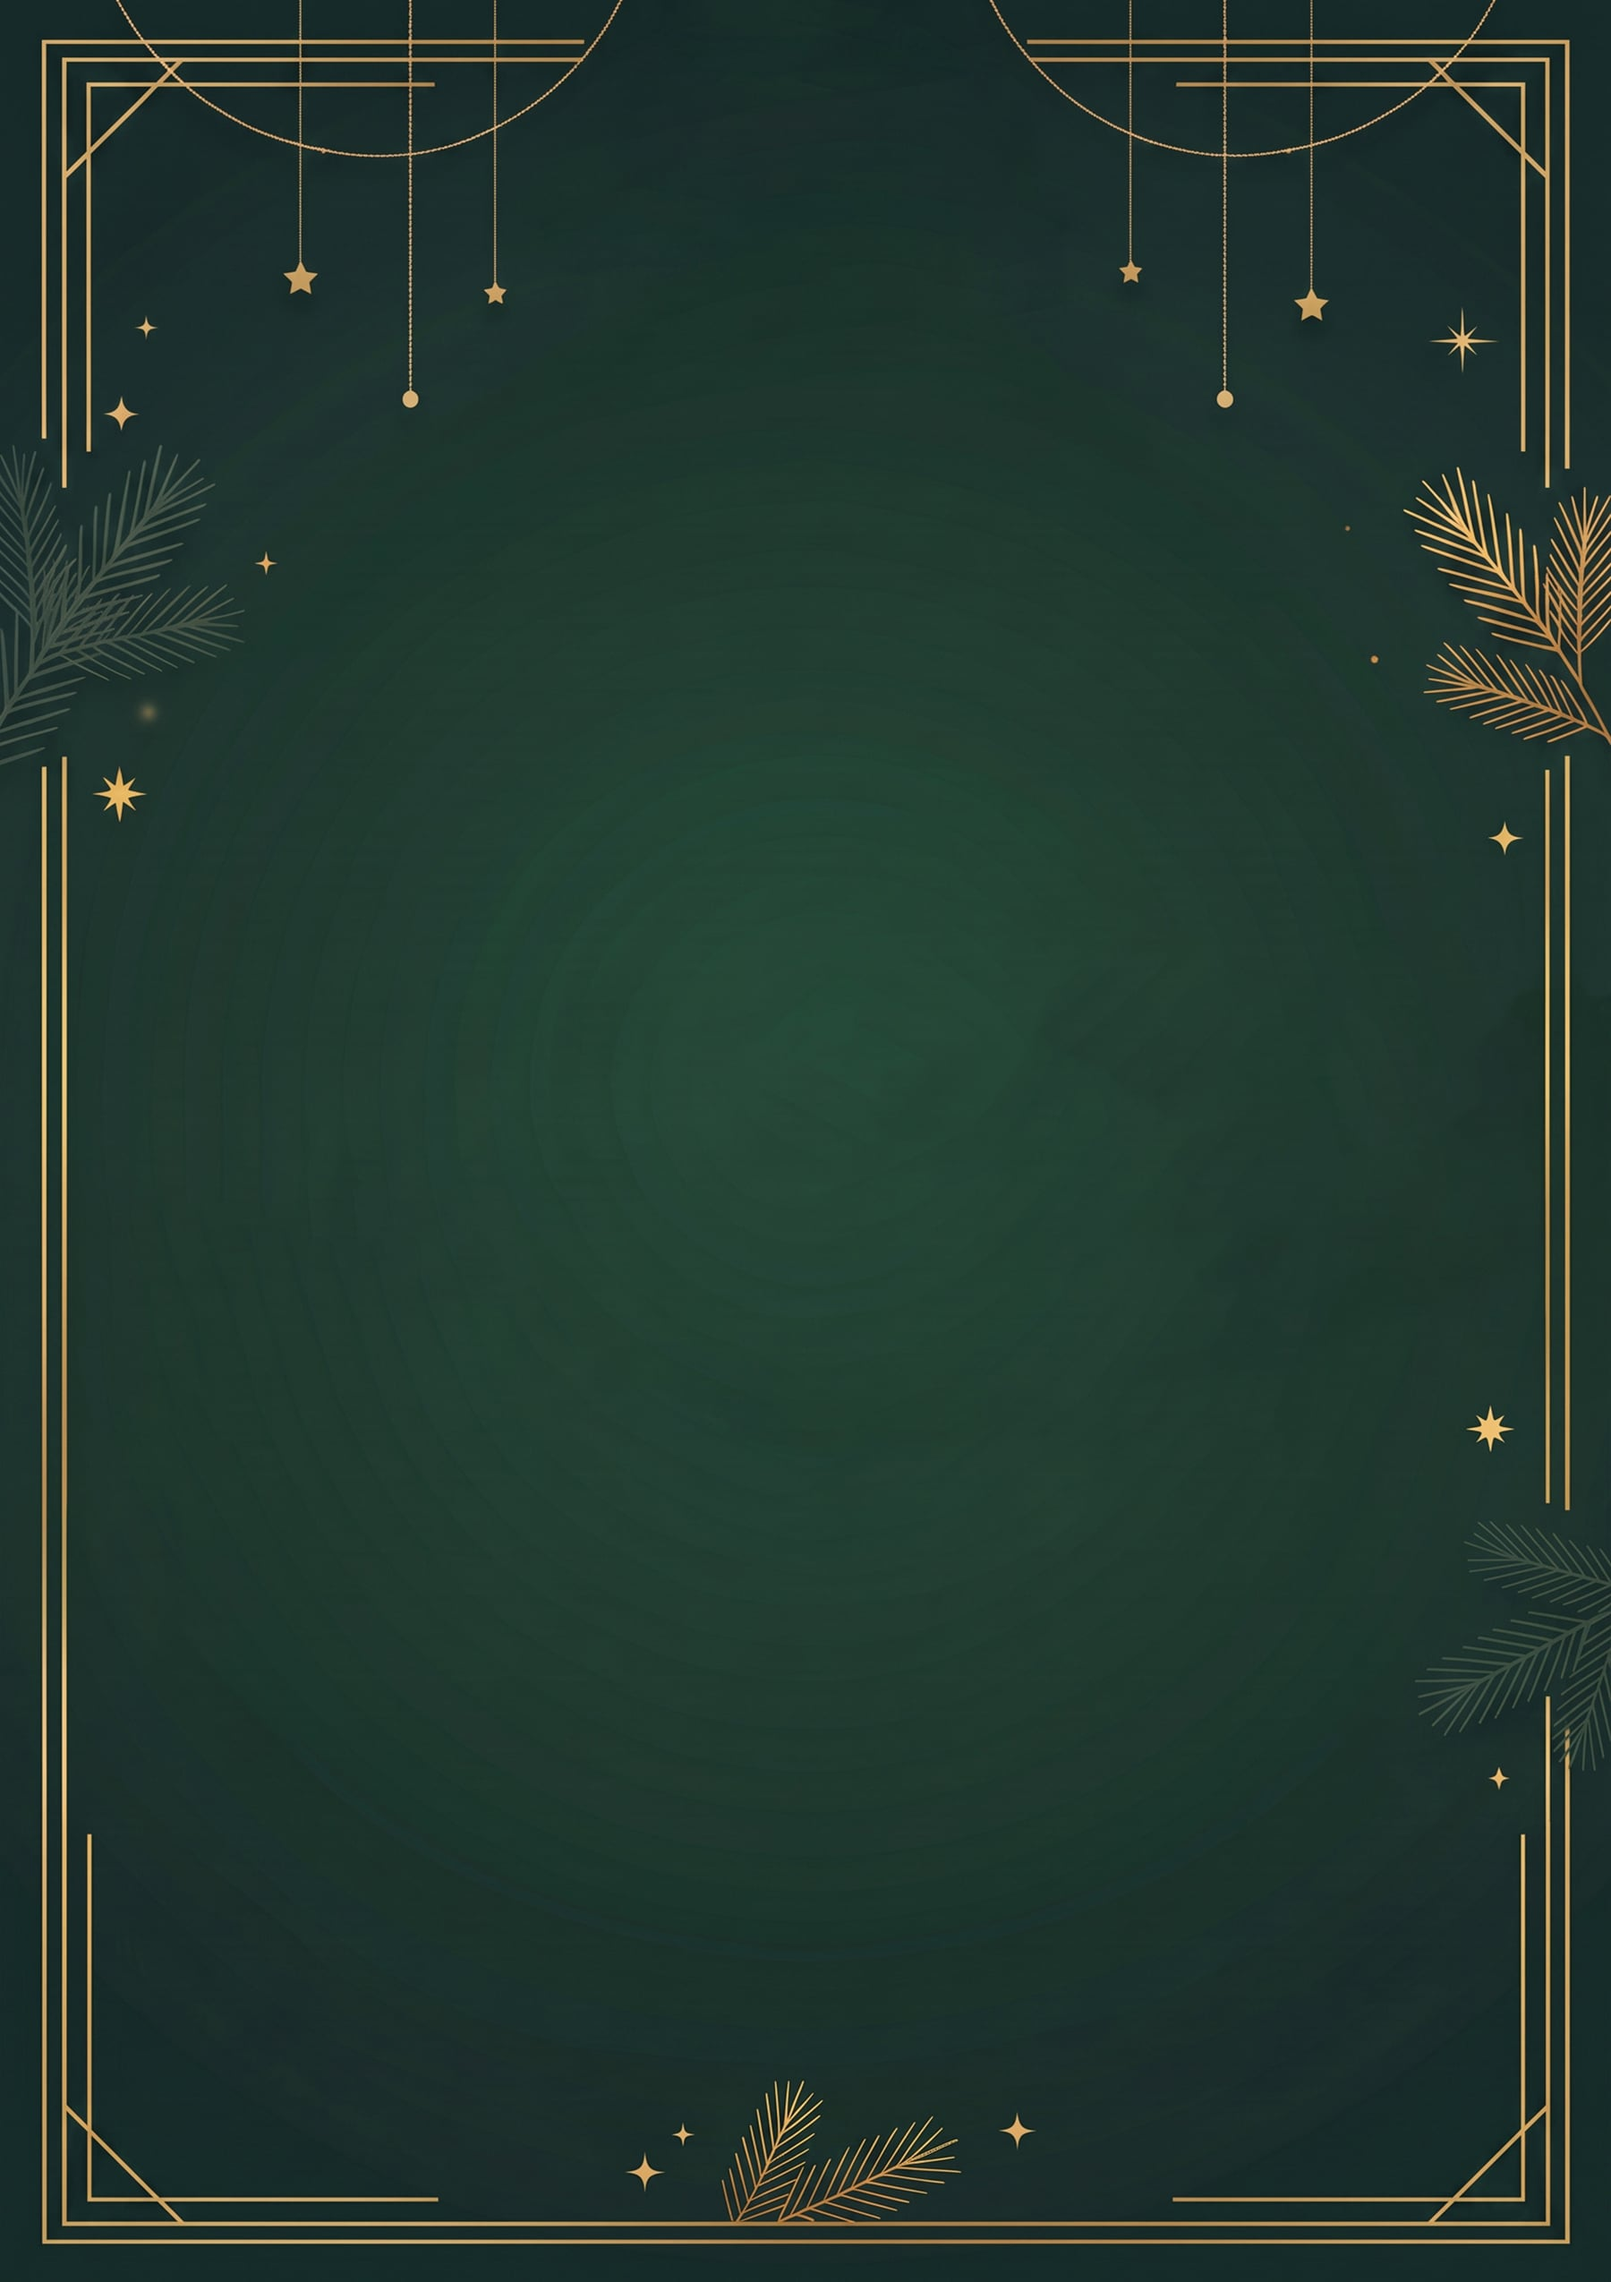
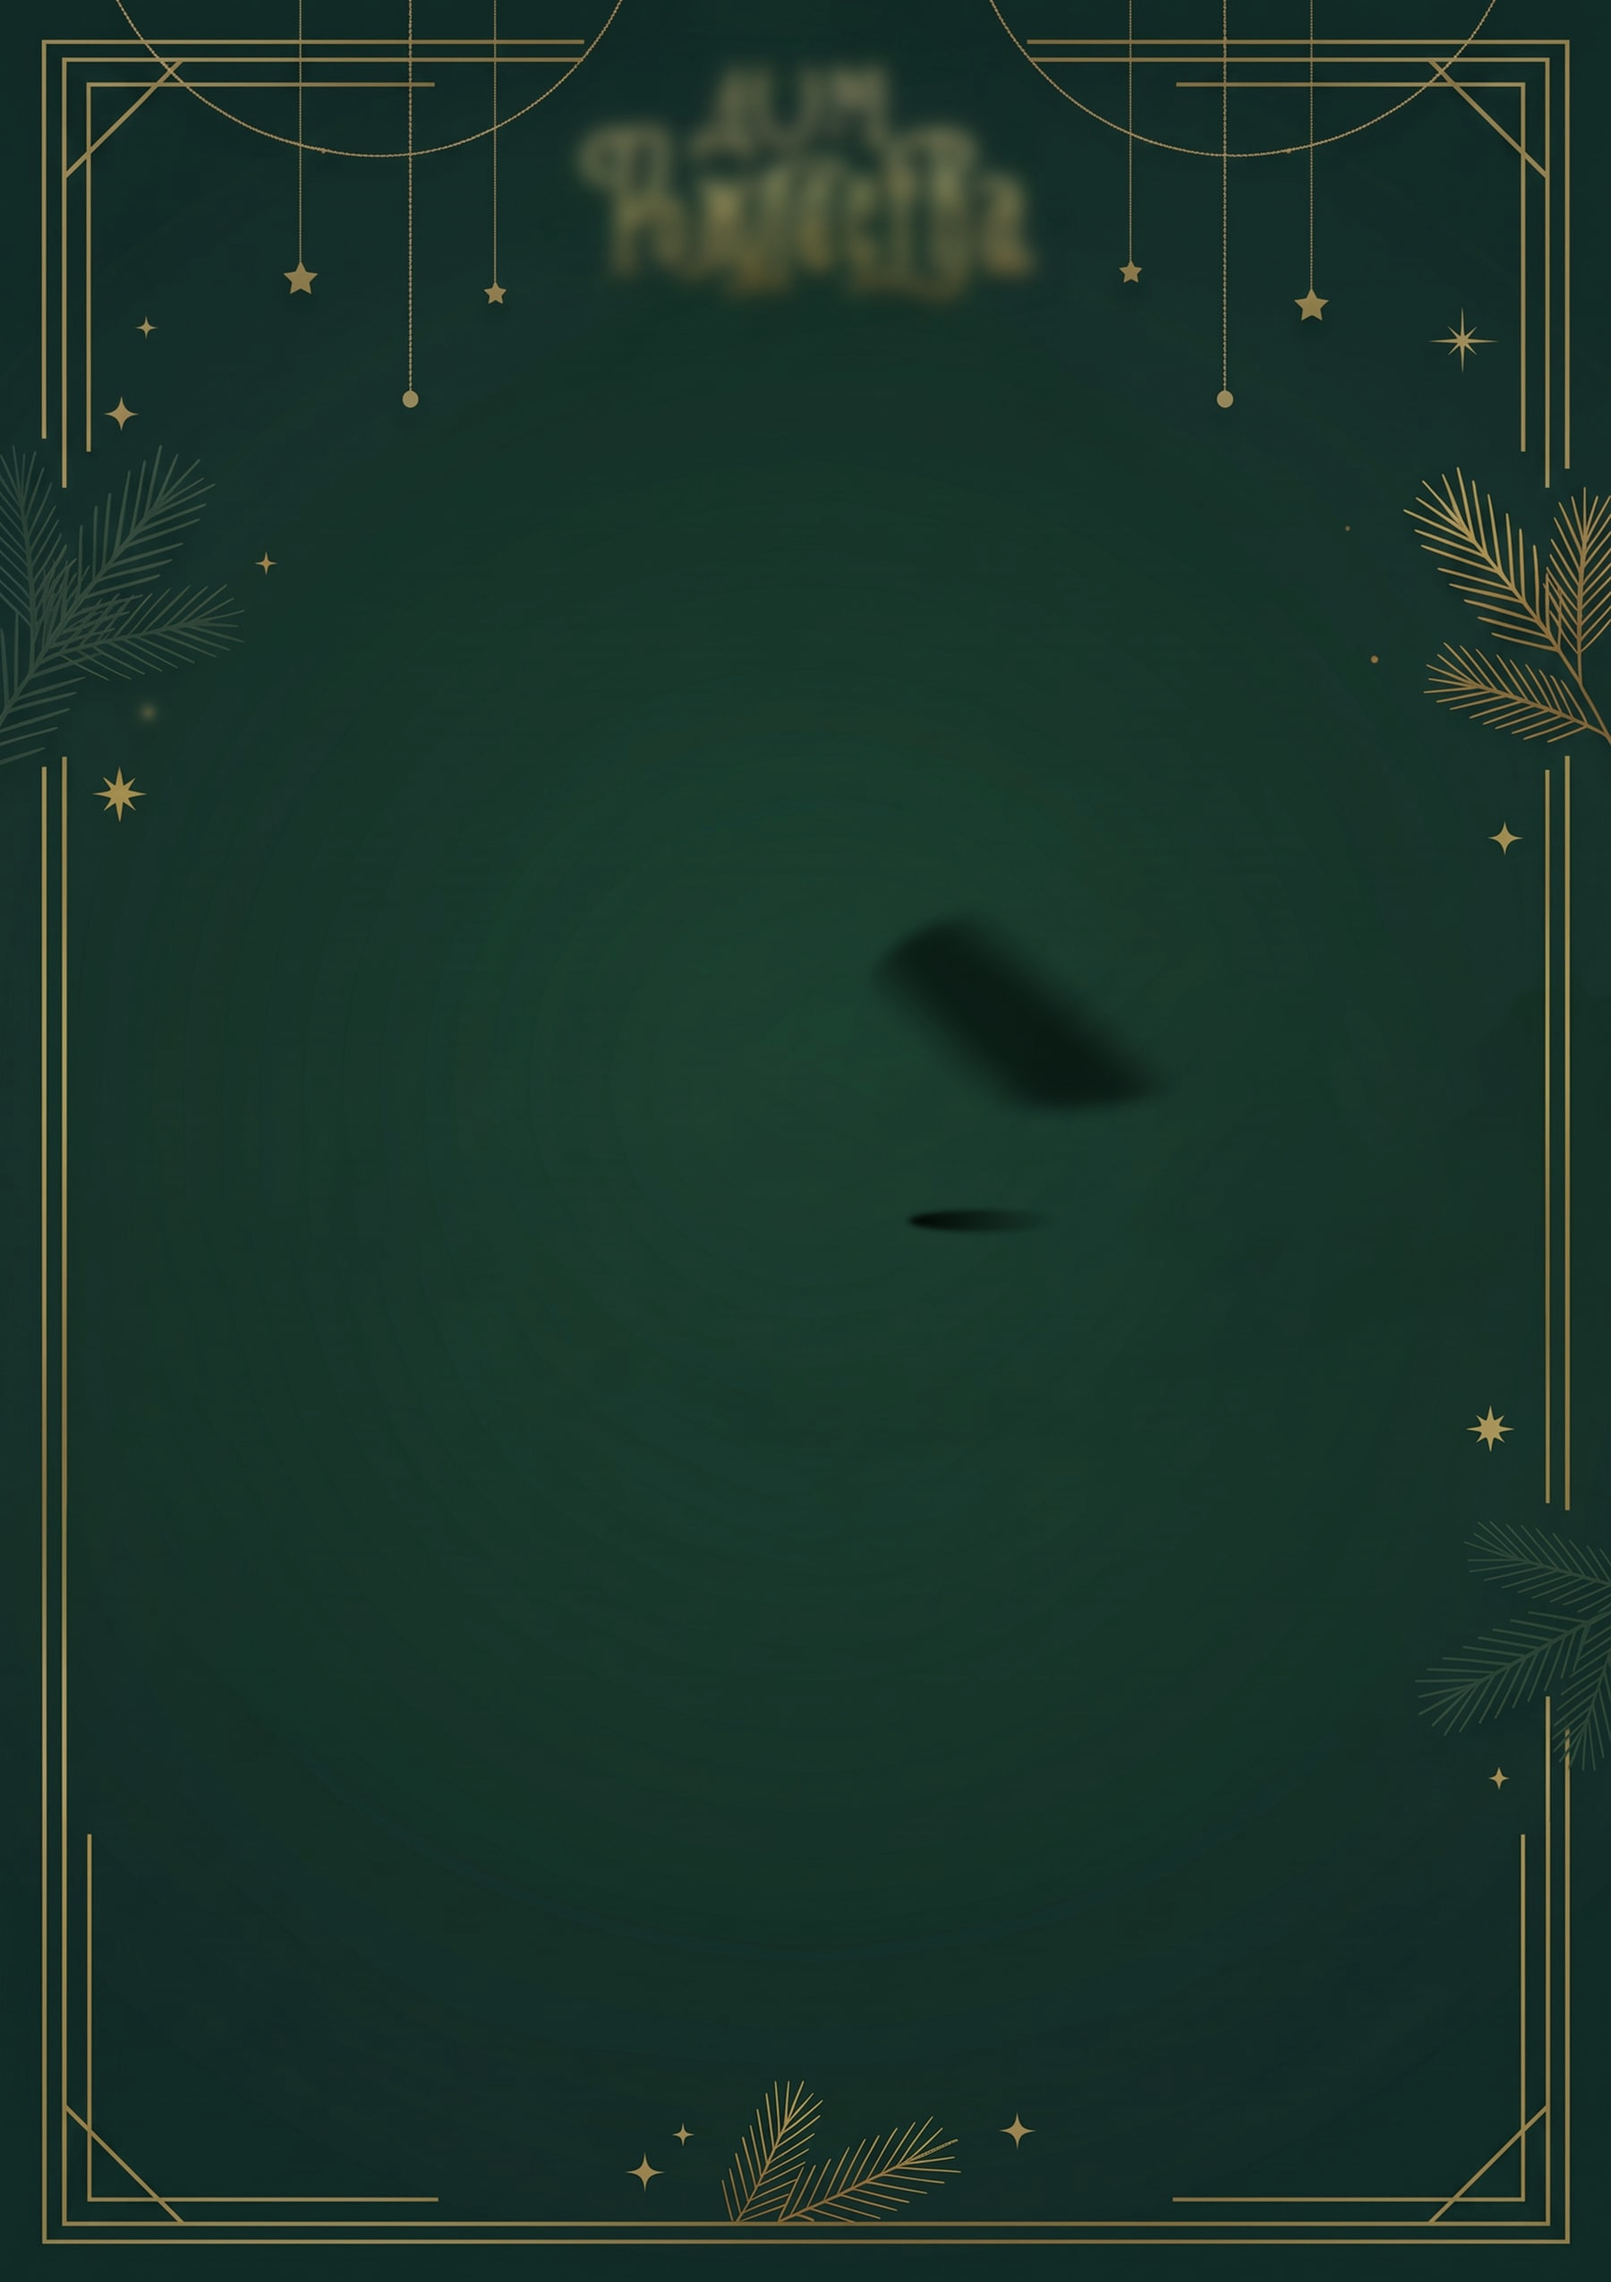
Дом Рождества: запечь эффекты билета, ужать логотипы, убрать заголовок из письма
- Фон билета: opacity 0.7 и свечения (логотип, паровоз, барабан) запечены в background.jpg, убраны из HTML билета
- Логотипы razman-logo, dei-logo, logo ужаты примерно до 3x размера на макете
- Удалены неиспользуемые train-glow.svg и drum-glow.svg
- Письмо «Дом Рождества»: заголовок «Ваш билет — «Дом Рождества»» убран из тела (остаётся в теме)

diff --git a/src/lib/ticket-html-dom-rozhdestva.ts b/src/lib/ticket-html-dom-rozhdestva.ts
@@ -138,9 +138,7 @@ export async function buildDomRozhdestvaTicketHtml(opts: TicketPdfInput): Promis
   const background = assetDataUrl("background.jpg") ?? assetDataUrl("background.png");
   const logo = assetDataUrl("logo.png");
   const train = assetDataUrl("train.png");
-  const trainGlow = assetDataUrl("train-glow.svg");
   const drum = assetDataUrl("drum.png");
-  const drumGlow = assetDataUrl("drum-glow.svg");
   const nutcracker = assetDataUrl("nutcracker.png");
   const dei = assetDataUrl("dei-logo.png");
   const razman = assetDataUrl("razman-logo.png");
@@ -189,22 +187,7 @@ export async function buildDomRozhdestvaTicketHtml(opts: TicketPdfInput): Promis
       width: 797px;
       height: 1129px;
       object-fit: cover;
-      opacity: 0.7;
       pointer-events: none;
-    }
-    .train-glow {
-      position: absolute;
-      left: 421px;
-      top: 436.36px;
-      width: 199.89px;
-      height: 118.102px;
-      mix-blend-mode: multiply;
-      pointer-events: none;
-    }
-    .train-glow img {
-      display: block;
-      width: 100%;
-      height: 100%;
     }
     .train {
       position: absolute;
@@ -213,18 +196,6 @@ export async function buildDomRozhdestvaTicketHtml(opts: TicketPdfInput): Promis
       width: 129.169px;
       height: 120.962px;
       object-fit: cover;
-      pointer-events: none;
-    }
-    .logo-glow {
-      position: absolute;
-      left: 284px;
-      top: 31px;
-      width: 230.579px;
-      height: 133.832px;
-      object-fit: cover;
-      object-position: center 68%;
-      opacity: 0.6;
-      filter: blur(5.421px);
       pointer-events: none;
     }
     .logo {
@@ -441,20 +412,6 @@ export async function buildDomRozhdestvaTicketHtml(opts: TicketPdfInput): Promis
       line-height: normal;
       color: rgba(255, 255, 255, 0.6);
     }
-    .drum-glow {
-      position: absolute;
-      left: 446px;
-      top: 593px;
-      width: 82px;
-      height: 16px;
-      mix-blend-mode: multiply;
-      pointer-events: none;
-    }
-    .drum-glow img {
-      display: block;
-      width: 100%;
-      height: 100%;
-    }
     .drum {
       position: absolute;
       left: 443px;
@@ -496,9 +453,7 @@ export async function buildDomRozhdestvaTicketHtml(opts: TicketPdfInput): Promis
   </div>
   <div class="sheet">
     ${img(background, "bg")}
-    ${trainGlow ? `<div class="train-glow">${img(trainGlow, "")}</div>` : ""}
     ${img(train, "train")}
-    ${img(logo, "logo-glow")}
     ${img(logo, "logo")}
     <p class="by-line">BY RAZMAN PRODUCTION</p>
     <p class="title">Интерактивное пространство<br/>«Дом Рождества»</p>
@@ -520,7 +475,6 @@ export async function buildDomRozhdestvaTicketHtml(opts: TicketPdfInput): Promis
     ${img(dei, "dei-logo")}
     ${img(razman, "razman-logo")}
     <p class="age">0+</p>
-    ${drumGlow ? `<div class="drum-glow">${img(drumGlow, "")}</div>` : ""}
     ${img(drum, "drum")}
     ${img(nutcracker, "nutcracker")}
   </div>

diff --git a/src/lib/mail.ts b/src/lib/mail.ts
@@ -75,9 +75,7 @@ function buildDomRozhdestvaTicketEmail(opts: TicketEmailInput): BuiltTicketEmail
 
   const subject = multiple ? "Ваши билеты — «Дом Рождества»" : "Ваш билет — «Дом Рождества»";
 
-  const text = `${subject}
-
-Добрый день, на связи Razman Production!
+  const text = `Добрый день, на связи Razman Production!
 
 Благодарим, что выбрали интерактивное пространство "Дом Рождества" - Фабрика чудес! Вот-вот вы погрузитесь в волшебный мир, где вас ждёт незабываемые приключения!
 
@@ -121,7 +119,6 @@ Instagram: @domm.rp (${LINK_INSTAGRAM_DR})
 <html lang="ru">
 <head><meta charset="utf-8" /></head>
 <body style="margin:0;padding:16px;font-family:Arial,Helvetica,sans-serif;font-size:15px;line-height:1.55;color:#222;">
-<h1 style="font-size:22px;line-height:1.3;margin:0 0 16px;color:#222;">${escapeHtml(subject)}</h1>
 <p>Добрый день, на связи Razman Production!</p>
 <p>Благодарим, что выбрали интерактивное пространство &quot;Дом Рождества&quot; - Фабрика чудес! Вот-вот вы погрузитесь в волшебный мир, где вас ждёт незабываемые приключения!</p>
 <p><strong>${escapeHtml(ticketLead)}</strong></p>
